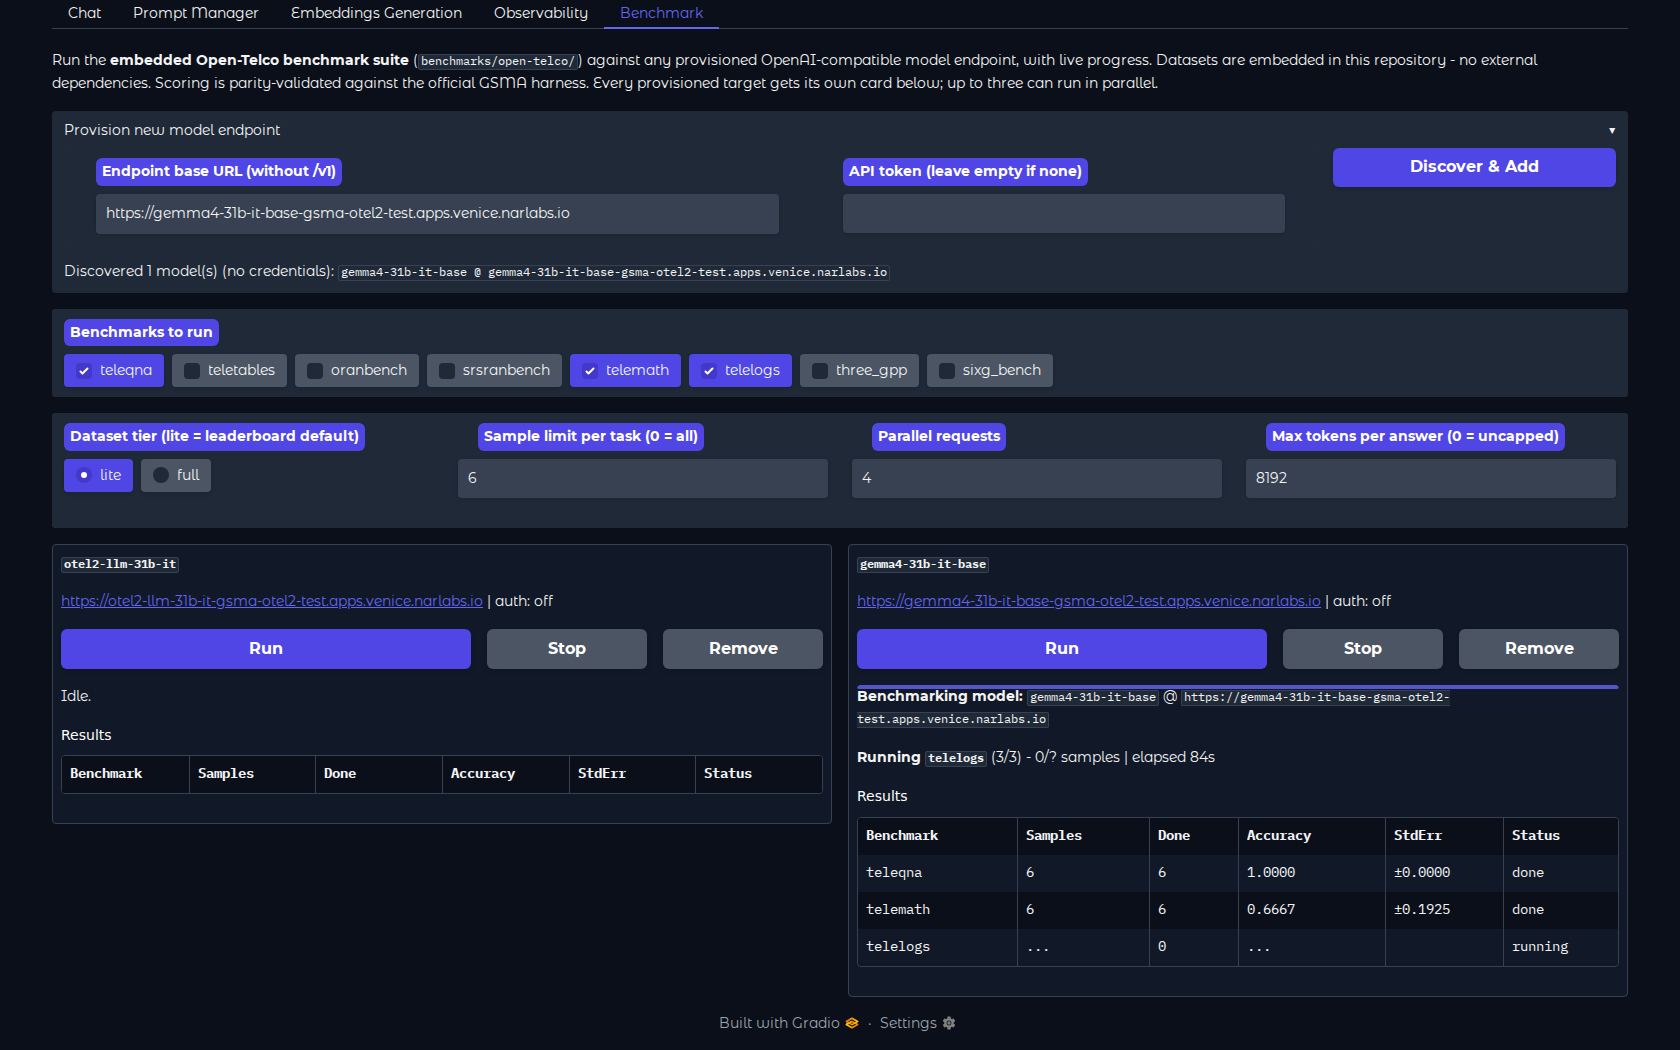
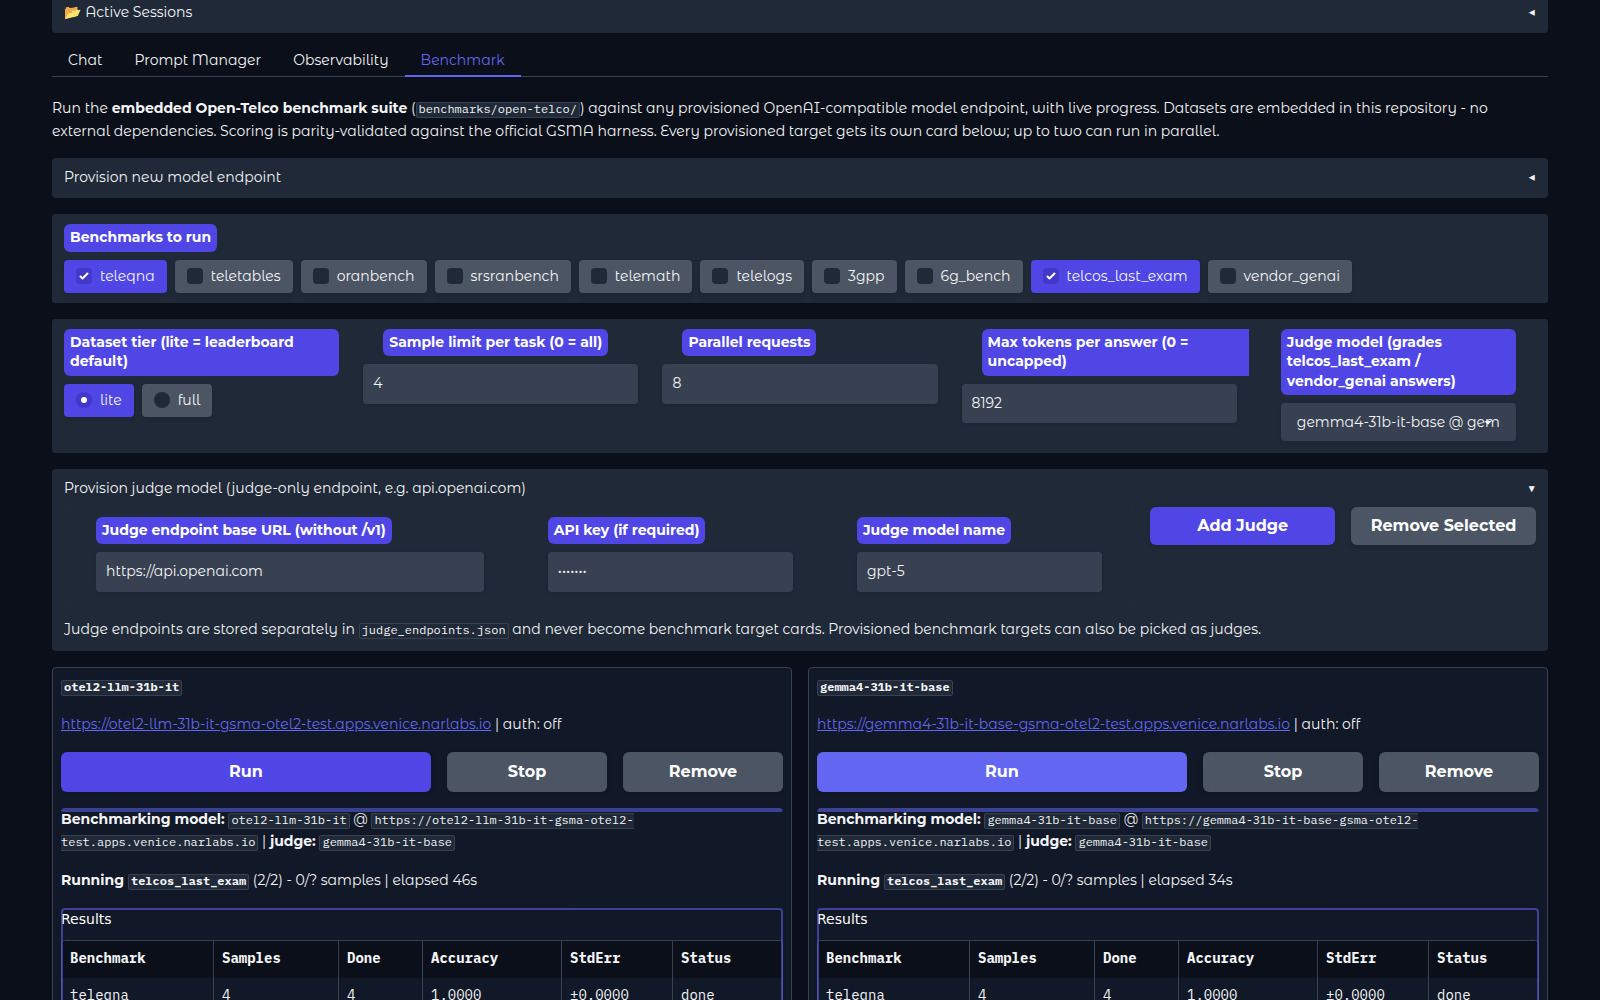
Rename 3gpp/6g_bench tasks; fresh portal screenshots; judge form in README

diff --git a/benchmarks/open-telco/otel_eval.py b/benchmarks/open-telco/otel_eval.py
@@ -214,10 +214,10 @@ TASKS = {
     "teletables":  {"prompt": build_mcq_prompt,      "score": score_mcq},
     "oranbench":   {"prompt": build_mcq_prompt,      "score": score_mcq},
     "srsranbench": {"prompt": build_mcq_prompt,      "score": score_mcq},
-    "sixg_bench":  {"prompt": build_mcq_prompt,      "score": score_mcq},
+    "6g_bench":    {"prompt": build_mcq_prompt,      "score": score_mcq},
     "telemath":    {"prompt": build_telemath_prompt, "score": score_telemath},
     "telelogs":    {"prompt": build_plain_prompt,    "score": score_telelogs},
-    "three_gpp":   {"prompt": build_plain_prompt,    "score": score_three_gpp},
+    "3gpp":        {"prompt": build_plain_prompt,    "score": score_three_gpp},
     # LLM-as-judge suites (need --judge-* / a judge model in the portal)
     "telcos_last_exam": {"prompt": build_exam_prompt, "judged": "reference",
                          "path": "telcos-last-exam/datasets/telcos_last_exam.jsonl.gz"},
@@ -229,7 +229,7 @@ JUDGED_TASKS = [k for k, v in TASKS.items() if v.get("judged")]
 
 LEADERBOARD_TASKS = [
     "teleqna", "teletables", "oranbench", "srsranbench",
-    "telemath", "telelogs", "three_gpp",
+    "telemath", "telelogs", "3gpp",
 ]
 
 

diff --git a/sme-web-ui-v2.py b/sme-web-ui-v2.py
@@ -4560,7 +4560,7 @@ class ChatInterface:
                         bench_tasks = gr.CheckboxGroup(
                             choices=["teleqna", "teletables", "oranbench",
                                      "srsranbench", "telemath", "telelogs",
-                                     "three_gpp", "sixg_bench",
+                                     "3gpp", "6g_bench",
                                      "telcos_last_exam", "vendor_genai"],
                             value=["teleqna", "telemath", "telelogs"],
                             interactive=True,

diff --git a/benchmarks/open-telco/datasets/PROVENANCE.md b/benchmarks/open-telco/datasets/PROVENANCE.md
@@ -7,8 +7,8 @@ no content modification.
 
 | Tier | Source (Hugging Face) | Snapshot date | Records |
 |---|---|---|---|
-| `lite/` | `GSMA/ot-lite` (JSON files) | 2026-08-07 | teleqna 1,000 · teletables 100 · telemath 100 · telelogs 100 · three_gpp 100 · oranbench 150 · srsranbench 150 · sixg_bench 150 |
-| `full/` | `GSMA/ot-full` (Parquet files) | 2026-08-08 | teleqna 10,000 · teletables 500 · telemath 500 · telelogs 864 · three_gpp 2,000 · oranbench 1,500 · srsranbench 1,502 · sixg_bench 3,722 |
+| `lite/` | `GSMA/ot-lite` (JSON files) | 2026-08-07 | teleqna 1,000 | teletables 100 | telemath 100 | telelogs 100 | 3gpp 100 | oranbench 150 | srsranbench 150 | 6g_bench 150 |
+| `full/` | `GSMA/ot-full` (Parquet files) | 2026-08-08 | teleqna 10,000 | teletables 500 | telemath 500 | telelogs 864 | 3gpp 2,000 | oranbench 1,500 | srsranbench 1,502 | 6g_bench 3,722 |
 
 The lite tier is the default sample set used by the
 [GSMA Open Telco Leaderboard](https://huggingface.co/spaces/GSMA/open-telco-leaderboard)
@@ -21,10 +21,10 @@ these copies exist to guarantee long-term reproducibility of Telco-AIX
 benchmark results independent of upstream availability.
 
 Record schemas (per line of JSONL):
-- MCQ tasks (`teleqna`, `teletables`, `oranbench`, `srsranbench`, `sixg_bench`):
+- MCQ tasks (`teleqna`, `teletables`, `oranbench`, `srsranbench`, `6g_bench`):
   `question` (str), `choices` (list[str]), `answer` (int index), plus
   task-specific metadata fields.
-- `telemath`, `telelogs`, `three_gpp`: `question` (str), `answer` (str), plus
+- `telemath`, `telelogs`, `3gpp`: `question` (str), `answer` (str), plus
   metadata.
 
 A snapshot of the leaderboard's published scores as of 2026-08-07 is kept in

diff --git a/benchmarks/open-telco/README.md b/benchmarks/open-telco/README.md
@@ -61,7 +61,7 @@ python3 otel_eval.py --endpoint https://$H/v1 --model <name> --ca-bundle lab-ca.
 Useful flags:
 
 - `--tier full` - full datasets (TeleQnA 10,000 etc.) instead of lite
-- `--tasks teleqna,telemath` - subset; add `sixg_bench` for 6G-Bench
+- `--tasks teleqna,telemath` - subset; add `6g_bench` for 6G-Bench
 - `--limit 50` - quick smoke run
 - `--api-key KEY` - sent as `Authorization: Bearer` (vLLM `--api-key`, rbac proxies)
 - `--max-tokens 8192` - cap generations (recommended for long-reasoning models)

diff --git a/README.md b/README.md
@@ -131,6 +131,8 @@ become benchmark target cards. Select the judge in the **Judge model**
 dropdown and run - a frontier-class judge is recommended for grading
 quality. Results report the judge alongside the scores - numbers from
 different judges are not comparable.
+
+![Judge model provisioning](images/tab-benchmark-judge.png)
 </details>
 
 ## Benchmark Suites
